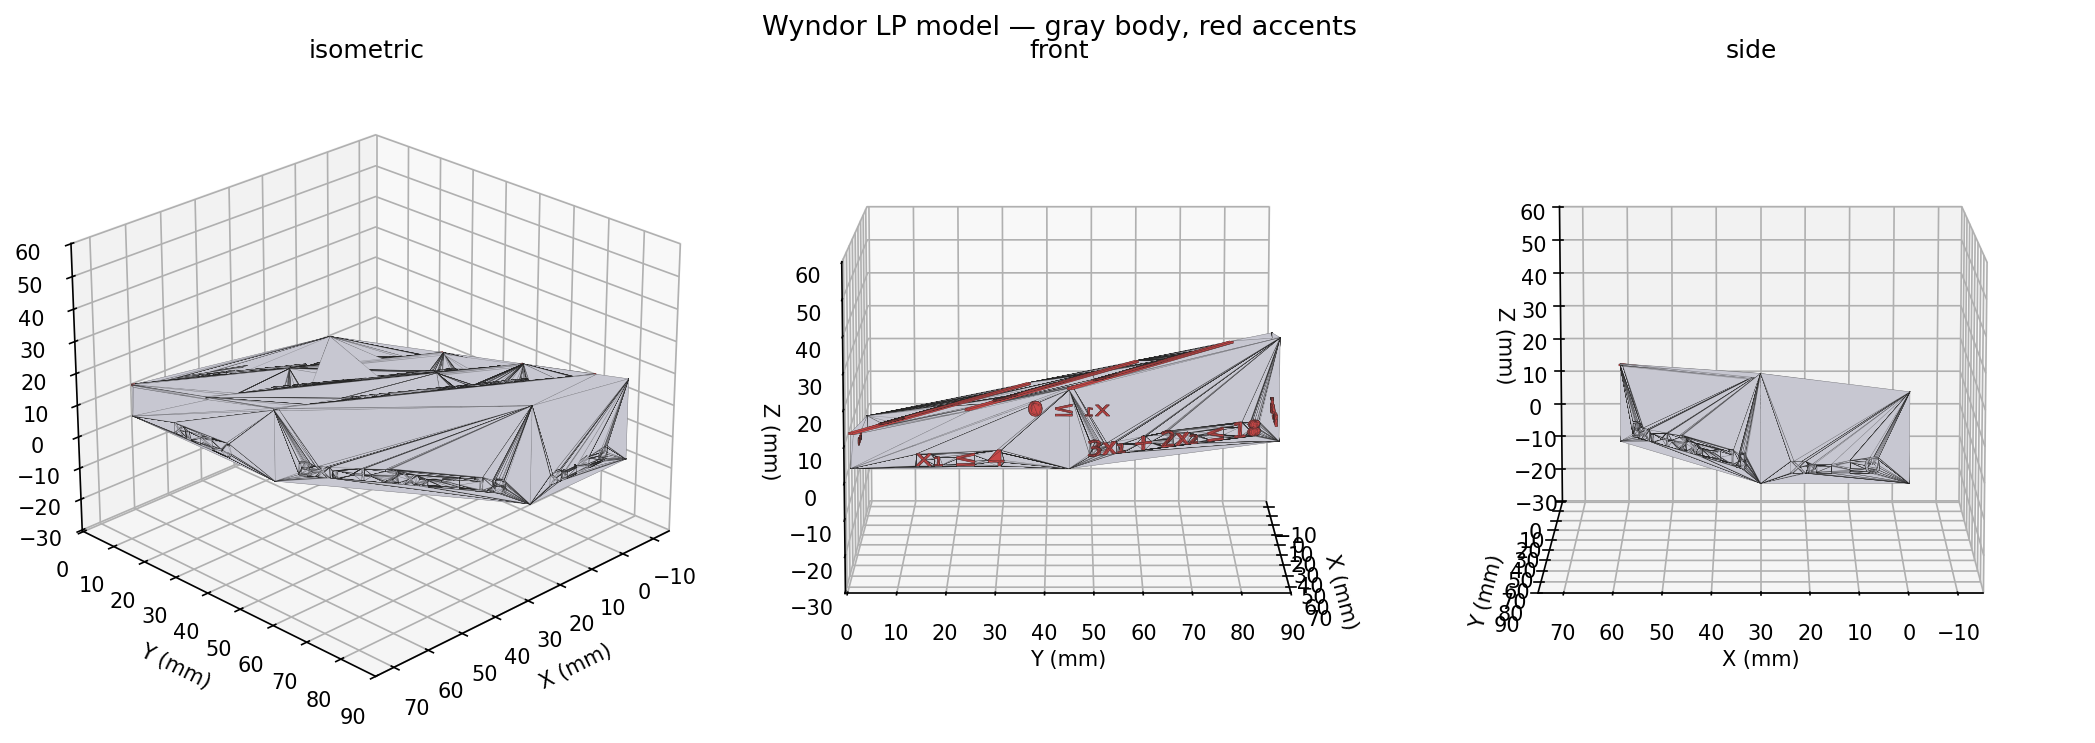
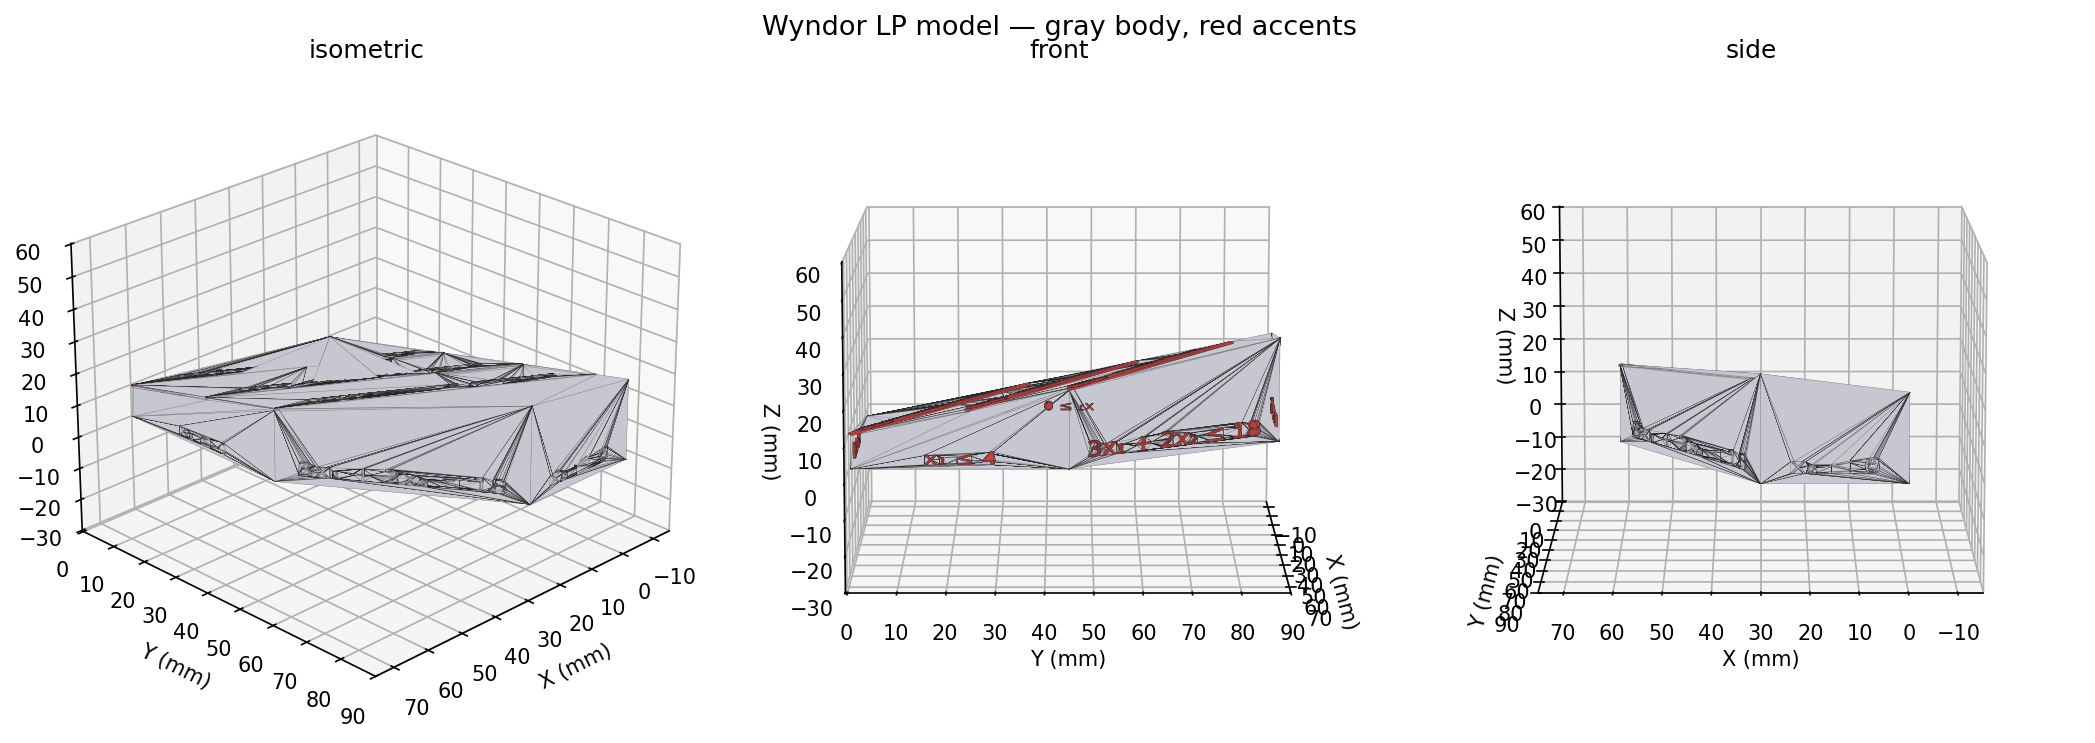
refined inset of symbols

diff --git a/wyndor_print/generate_wyndor_stl.py b/wyndor_print/generate_wyndor_stl.py
@@ -51,9 +51,27 @@ GROOVE_DEPTH = 0.5
 TEXT_FONT_SIZE = 6.0
 LABEL_INSET_DEPTH = 0.5
 INSET_CLEARANCE = 0.05
-LABEL_OFFSET_LP = 0.12  # offset below contour lines in LP units (~1.8 mm)
-WALL_LABEL_V_FRACTION = 0.18  # vertical position: fraction up from base (not centered)
-CONTOUR_LABEL_MAX_HEIGHT_MM = 2.8
+CONTOUR_LABEL_GAP_MM = 1.5  # min clearance from groove edge to nearest equation glyph
+WALL_LABEL_V_FRACTION = 0.18  # default vertical position: fraction up from base
+WALL_LABEL_HEIGHT_FRAC = 0.22  # default max text height as fraction of local wall height
+CONTOUR_LABEL_FONT_SIZE = 8.0
+CONTOUR_LABEL_INSET_DEPTH = 0.8
+CONTOUR_LABEL_MAX_HEIGHT_MM = 3.7
+
+# Per-contour label placement (defaults: chord_fraction=0.5 along p0→p1).
+CONTOUR_LABEL_OVERRIDES: dict[float, dict[str, float]] = {
+    1200: {"chord_fraction": 0.54},  # balance: keep 300 and = 1200 on top face
+}
+
+# Per-edge wall label placement (defaults: h_fraction=0.5, v_fraction=WALL_LABEL_V_FRACTION).
+WALL_LABEL_OVERRIDES: dict[str, dict[str, float]] = {
+    "x₁ ≥ 0": {"v_fraction": 0.26},
+    "x₂ ≥ 0": {
+        "h_fraction": 0.72,
+        "v_fraction": 0.40,
+        "max_height_mm": 5.5,
+    },
+}
 
 OUTPUT_DIR = Path(__file__).resolve().parent / "output"
 BOOLEAN_ENGINE = "manifold"
@@ -132,16 +150,26 @@ def flip_text_180(
     return -x_axis, -y_axis
 
 
+def wall_label_settings(label: str) -> dict[str, float]:
+    overrides = WALL_LABEL_OVERRIDES.get(label, {})
+    return {
+        "h_fraction": overrides.get("h_fraction", 0.5),
+        "v_fraction": overrides.get("v_fraction", WALL_LABEL_V_FRACTION),
+        "max_height_mm": overrides.get("max_height_mm", -1.0),
+    }
+
+
 def create_text_volume(
     text: str,
     depth: float,
     xy_buffer: float = 0.0,
+    font_size: float = TEXT_FONT_SIZE,
 ) -> trimesh.Trimesh:
     """Extrude text from local z=0 into +Z by depth (anchored on the opening face)."""
     path = TextPath(
         (0, 0),
         text,
-        prop=FontProperties(family="DejaVu Sans", size=TEXT_FONT_SIZE),
+        prop=FontProperties(family="DejaVu Sans", size=font_size),
     )
     parts: list[trimesh.Trimesh] = []
     for poly in path.to_polygons():
@@ -313,25 +341,45 @@ def clip_contour_to_polygon(k: float) -> list[tuple[np.ndarray, np.ndarray]]:
     return [best_pair]
 
 
-def contour_label_offset_lp(p0_lp: np.ndarray, p1_lp: np.ndarray) -> np.ndarray:
-    """LP-space point just below the contour chord (toward lower objective)."""
-    mid = (p0_lp + p1_lp) / 2.0
+def contour_label_settings(k: float) -> dict[str, float]:
+    overrides = CONTOUR_LABEL_OVERRIDES.get(k, {})
+    return {
+        "chord_fraction": overrides.get("chord_fraction", 0.5),
+    }
+
+
+def contour_label_offset_lp(
+    k: float,
+    p0_lp: np.ndarray,
+    p1_lp: np.ndarray,
+) -> np.ndarray:
+    """LP-space point below the contour chord (toward lower objective), clearing groove + text."""
+    settings = contour_label_settings(k)
+    offset_lp = (
+        RIDGE_WIDTH / 2.0 + CONTOUR_LABEL_GAP_MM + CONTOUR_LABEL_MAX_HEIGHT_MM / 2.0
+    ) / SCALE_XY
+    base_lp = p0_lp + settings["chord_fraction"] * (p1_lp - p0_lp)
     chord = p1_lp - p0_lp
     length = np.linalg.norm(chord)
     if length < 1e-9:
-        return mid
+        return base_lp
     perp = np.array([-chord[1], chord[0]]) / length
     gradient = np.array([OBJ_A, OBJ_B])
     if np.dot(perp, gradient) > 0:
         perp = -perp
-    return mid + perp * LABEL_OFFSET_LP
+    return base_lp + perp * offset_lp
 
 
 def wall_label_transform(
     p0_lp: np.ndarray,
     p1_lp: np.ndarray,
+    label: str,
 ) -> np.ndarray:
     """4x4 transform: local +Z points into the body from the exterior wall face."""
+    settings = wall_label_settings(label)
+    h_fraction = settings["h_fraction"]
+    v_fraction = settings["v_fraction"]
+
     z0 = objective(p0_lp[0], p0_lp[1])
     z1 = objective(p1_lp[0], p1_lp[1])
 
@@ -352,22 +400,37 @@ def wall_label_transform(
     y_axis = np.array([0.0, 0.0, 1.0])
     z_axis = -outward
 
-    bottom_mid = 0.5 * (bl + br)
-    top_mid = 0.5 * (tl + tr)
-    origin = bottom_mid + WALL_LABEL_V_FRACTION * (top_mid - bottom_mid)
+    anchor_bottom = bl + h_fraction * (br - bl)
+    anchor_top = tl + h_fraction * (tr - tl)
+    origin = anchor_bottom + v_fraction * (anchor_top - anchor_bottom)
     return make_transform(origin, x_axis, y_axis, z_axis)
 
 
-def wall_label_max_size(p0_lp: np.ndarray, p1_lp: np.ndarray) -> tuple[float, float]:
+def wall_label_max_size(
+    p0_lp: np.ndarray,
+    p1_lp: np.ndarray,
+    label: str,
+) -> tuple[float, float]:
+    settings = wall_label_settings(label)
+    h_fraction = settings["h_fraction"]
+
     z0 = objective(p0_lp[0], p0_lp[1])
     z1 = objective(p1_lp[0], p1_lp[1])
     bl = to_mm(p0_lp[0], p0_lp[1], 0.0)
     br = to_mm(p1_lp[0], p1_lp[1], 0.0)
     tl = to_mm(p0_lp[0], p0_lp[1], z0)
     tr = to_mm(p1_lp[0], p1_lp[1], z1)
+
+    anchor_bottom = bl + h_fraction * (br - bl)
+    anchor_top = tl + h_fraction * (tr - tl)
+    local_height = np.linalg.norm(anchor_top - anchor_bottom)
     wall_width = np.linalg.norm(br - bl)
-    wall_height = max(np.linalg.norm(tl - bl), np.linalg.norm(tr - br))
-    return wall_width * 0.85, wall_height * 0.22
+
+    if settings["max_height_mm"] > 0:
+        max_h = settings["max_height_mm"]
+    else:
+        max_h = local_height * WALL_LABEL_HEIGHT_FRAC
+    return wall_width * 0.85, max_h
 
 
 def build_wall_label_pair(
@@ -375,8 +438,8 @@ def build_wall_label_pair(
     p1_lp: np.ndarray,
     label: str,
 ) -> tuple[trimesh.Trimesh, trimesh.Trimesh]:
-    transform = wall_label_transform(p0_lp, p1_lp)
-    max_w, max_h = wall_label_max_size(p0_lp, p1_lp)
+    transform = wall_label_transform(p0_lp, p1_lp, label)
+    max_w, max_h = wall_label_max_size(p0_lp, p1_lp, label)
 
     fill_local = fit_text_mesh(create_text_volume(label, LABEL_INSET_DEPTH), max_w, max_h)
     cavity_local = fit_text_mesh(
@@ -411,7 +474,7 @@ def contour_label_transform(
     x_axis_3d = x_axis_3d / np.linalg.norm(x_axis_3d)
     x_axis_3d, y_axis = flip_text_180(x_axis_3d, y_axis)
 
-    anchor_lp = contour_label_offset_lp(p0_lp, p1_lp)
+    anchor_lp = contour_label_offset_lp(k, p0_lp, p1_lp)
     origin = lp_to_top_point(anchor_lp)
     return make_transform(origin, x_axis_3d, y_axis, -outward)
 
@@ -434,12 +497,21 @@ def build_contour_label_pair(
         return empty, empty
 
     max_w, max_h = contour_label_max_size(p0_lp, p1_lp)
-    fill_local = fit_text_mesh(create_text_volume(label, LABEL_INSET_DEPTH), max_w, max_h)
+    fill_local = fit_text_mesh(
+        create_text_volume(
+            label,
+            CONTOUR_LABEL_INSET_DEPTH,
+            font_size=CONTOUR_LABEL_FONT_SIZE,
+        ),
+        max_w,
+        max_h,
+    )
     cavity_local = fit_text_mesh(
         create_text_volume(
             label,
-            LABEL_INSET_DEPTH + INSET_CLEARANCE,
+            CONTOUR_LABEL_INSET_DEPTH + INSET_CLEARANCE,
             xy_buffer=INSET_CLEARANCE / 2.0,
+            font_size=CONTOUR_LABEL_FONT_SIZE,
         ),
         max_w,
         max_h,
@@ -579,7 +651,7 @@ def main() -> None:
     size = bounds[1] - bounds[0]
     print(f"\nBody dimensions (mm): X={size[0]:.1f}, Y={size[1]:.1f}, Z={size[2]:.1f}")
     print(f"Contour levels included: {CONTOUR_LEVELS}")
-    print(f"Inset depths: grooves={GROOVE_DEPTH} mm, labels={LABEL_INSET_DEPTH} mm")
+    print(f"Inset depths: grooves={GROOVE_DEPTH} mm, wall labels={LABEL_INSET_DEPTH} mm, contour labels={CONTOUR_LABEL_INSET_DEPTH} mm")
     print(f"\nExported:\n  {body_path}\n  {accents_path}")
 
 

diff --git a/wyndor_print/README.md b/wyndor_print/README.md
@@ -46,8 +46,13 @@ Edit the constants at the top of `generate_wyndor_stl.py`:
 | `MAX_Z_MM` | 30.0 | Max model height in mm |
 | `RIDGE_WIDTH` | 1.0 | Iso-profit groove width (mm) |
 | `GROOVE_DEPTH` | 0.5 | Depth contour channels are cut into the top surface (mm) |
-| `LABEL_INSET_DEPTH` | 0.5 | Depth text cavities extend into body walls and top (mm) |
+| `LABEL_INSET_DEPTH` | 0.5 | Depth side-wall text cavities extend into body (mm) |
+| `CONTOUR_LABEL_FONT_SIZE` | 8.0 | Top objective equation font size |
+| `CONTOUR_LABEL_INSET_DEPTH` | 0.8 | Depth top equation cavities extend into body (mm) |
+| `CONTOUR_LABEL_MAX_HEIGHT_MM` | 3.7 | Max height for fitted top equation text (mm) |
+| `CONTOUR_LABEL_GAP_MM` | 1.5 | Clearance between groove edge and equation text (mm) |
 | `INSET_CLEARANCE` | 0.05 | Extra cutter depth/width so accent fills seat cleanly (mm) |
+| `WALL_LABEL_OVERRIDES` | see script | Per-edge placement tweaks (`x₁ ≥ 0`, `x₂ ≥ 0`, etc.) |
 | `CONTOUR_LEVELS` | 1200, 2000, 2700 | Iso-profit lines on the top surface |
 
 ## Bambu Studio workflow